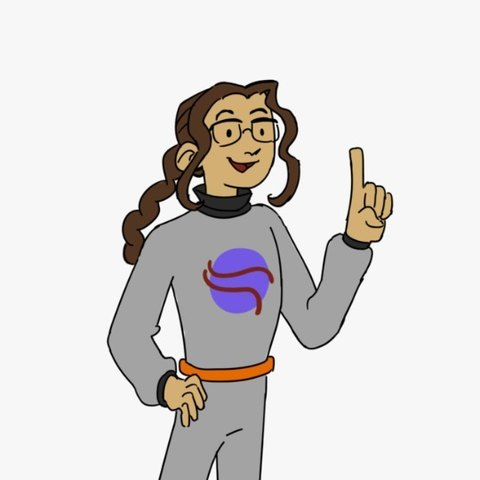
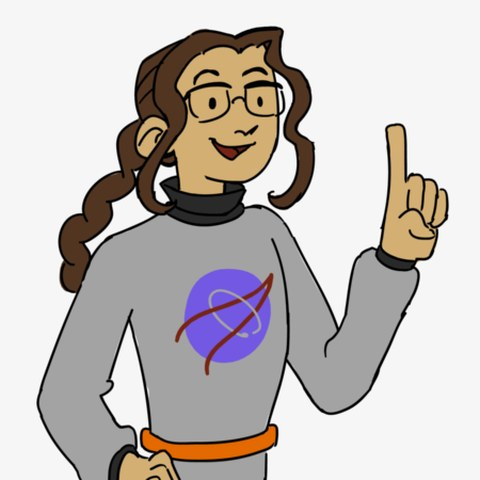
Web: imágenes definitivas, juego que se puede ganar y revisión de consistencia
- Imágenes: satélite junto a "Dos sensores, una sola serie"; dibujos nuevos de
  Evelyn (Inicio y Equipo) y de Valentino (mención especial)
- Juego: la barra con el puntaje y la × vuelve a verse sobre el navbar (igual
  que el cohete de Edu); partida de 1 minuto que se gana con menos del 30 %
  en llamas; los consejos aparecen a los costados del continente
- Tema oscuro con tono azul marino, a juego con el fondo de cielo
- Sin repeticiones: nota de cifras en Inicio, botón al repositorio y logo en
  Equipo, aviso y créditos del pie en Análisis
- Celular: el menú insinúa los ítems ocultos y trae el activo a la vista; el
  punto del dato vivo queda junto a su texto

diff --git a/web/src/views/TeamView.vue b/web/src/views/TeamView.vue
@@ -5,7 +5,6 @@ import { team } from '@/content/team.js';
 import MemberAvatar from '@/components/layout/MemberAvatar.vue';
 
 const { t, locale } = useI18n();
-const REPO = 'https://github.com/Toluk3/TerraAustralisTeam';
 // Mención especial en los agradecimientos
 const special = { id: 'special', name: 'Valentino Melchor', photo: '/team/valentino.png' };
 </script>
@@ -29,7 +28,6 @@ const special = { id: 'special', name: 'Valentino Melchor', photo: '/team/valent
     </section>
 
     <section class="tm__close" aria-labelledby="tm-thanks">
-      <img src="/logo.webp" width="120" height="120" alt="" class="tm__logo" />
       <div>
         <h2 id="tm-thanks">{{ t('team.thanksTitle') }}</h2>
         <p>{{ t('team.thanks') }}</p>
@@ -43,7 +41,6 @@ const special = { id: 'special', name: 'Valentino Melchor', photo: '/team/valent
             <p class="tm__special-body">{{ t('team.specialBody') }}</p>
           </div>
         </div>
-        <a :href="REPO" class="btn" target="_blank" rel="noopener"><span class="dot" aria-hidden="true"></span>{{ t('team.repo') }}<span class="visually-hidden"> ({{ t('nav.newTab') }})</span></a>
       </div>
     </section>
   </div>
@@ -63,15 +60,13 @@ const special = { id: 'special', name: 'Valentino Melchor', photo: '/team/valent
 .tm__name { font-size: 1.3rem; font-weight: 400; }
 .tm__role { margin: 0; color: var(--muted); font-size: 0.95rem; }
 .tm__close {
-  display: grid; grid-template-columns: auto minmax(0, 1fr); gap: clamp(20px, 4vw, 48px); align-items: center;
   margin-top: clamp(56px, 10vh, 112px); padding-top: clamp(32px, 6vh, 56px); border-top: 1px solid var(--line);
 }
-.tm__logo { width: 120px; height: 120px; }
 .tm__close h2 { font-size: clamp(1.6rem, 2.6vw, 2.2rem); margin-bottom: 14px; }
 .tm__close p { color: var(--ink-2); max-width: 64ch; margin-bottom: 22px; }
 .tm__special {
   display: grid; grid-template-columns: auto minmax(0, 1fr); gap: 20px; align-items: center;
-  margin: 0 0 24px; padding: 20px 24px; max-width: 640px;
+  margin: 0; padding: 20px 24px; max-width: 640px;
   border: 1px solid var(--line); border-radius: var(--radius-m); background: var(--surface);
 }
 .tm__special-photo { width: 112px; height: 112px; box-shadow: 0 0 0 1px var(--line); }
@@ -83,8 +78,6 @@ const special = { id: 'special', name: 'Valentino Melchor', photo: '/team/valent
 @media (max-width: 900px) { .tm__card { flex-basis: calc((100% - clamp(14px, 2vw, 24px)) / 2); } }
 @media (max-width: 600px) {
   .tm__card { flex-basis: 100%; }
-  .tm__close { grid-template-columns: 1fr; }
   .tm__special { grid-template-columns: 1fr; justify-items: start; }
-  .tm__close .btn { width: 100%; }
 }
 </style>

diff --git a/web/src/components/layout/AppNavbar.vue b/web/src/components/layout/AppNavbar.vue
@@ -1,5 +1,6 @@
 <script setup>
-import { computed, onBeforeUnmount, onMounted, ref } from 'vue';
+import { computed, nextTick, onBeforeUnmount, onMounted, ref, watch } from 'vue';
+import { useRoute } from 'vue-router';
 import { useI18n } from 'vue-i18n';
 import { ui, setLocale, toggleTheme, effectiveTheme } from '@/stores/ui.js';
 
@@ -17,6 +18,25 @@ const links = [
 // --nav-h sigue el alto real de la barra (bajo 1100 px pasa a dos filas): las pantallas de una
 // pantalla de alto y los anclajes lo usan.
 const header = ref(null);
+
+// En celular la píldora se desplaza de costado: el ítem activo se trae a la vista y, mientras queden
+// ítems a la derecha, un degradé lo insinúa (is-end lo saca al llegar al final)
+const pill = ref(null);
+const atEnd = ref(false);
+const route = useRoute();
+function onPillScroll() {
+  const el = pill.value;
+  if (el) atEnd.value = el.scrollLeft + el.clientWidth >= el.scrollWidth - 2;
+}
+watch(() => route.name, async () => {
+  await nextTick();
+  const el = pill.value;
+  const link = el?.querySelector('.nav__link.is-active');
+  if (el && link && el.scrollWidth > el.clientWidth) {
+    el.scrollLeft = link.offsetLeft - (el.clientWidth - link.offsetWidth) / 2;
+  }
+  onPillScroll();
+});
 let ro = null;
 onMounted(() => {
   ro = new ResizeObserver(() => {
@@ -38,7 +58,7 @@ const themeLabel = computed(() => t(dark.value ? 'nav.themeToLight' : 'nav.theme
         <span class="brand-word nav__word" aria-hidden="true">Terra<br />Australis</span>
       </RouterLink>
 
-      <nav class="nav__pill" :aria-label="t('nav.label')">
+      <nav ref="pill" class="nav__pill" :class="{ 'is-end': atEnd }" :aria-label="t('nav.label')" @scroll.passive="onPillScroll">
         <ul>
           <li v-for="l in links" :key="l.to">
             <RouterLink :to="l.to" v-slot="{ href, navigate, isExactActive }" custom>
@@ -121,5 +141,10 @@ const themeLabel = computed(() => t(dark.value ? 'nav.themeToLight' : 'nav.theme
   .nav__word { font-size: 1.05rem; }
   .nav__link { font-size: 0.95rem; padding: 0 12px; min-height: 44px; }
   .nav__pill { padding: 2px 6px; justify-self: stretch; }
+  .nav__pill ul {
+    -webkit-mask-image: linear-gradient(90deg, #000 0, #000 calc(100% - 28px), transparent);
+    mask-image: linear-gradient(90deg, #000 0, #000 calc(100% - 28px), transparent);
+  }
+  .nav__pill.is-end ul { -webkit-mask-image: none; mask-image: none; }
 }
 </style>

diff --git a/web/src/views/HomeView.vue b/web/src/views/HomeView.vue
@@ -121,7 +121,7 @@ onBeforeUnmount(() => {
             </p>
           </div>
           <!-- Imagen provisoria: reemplazar public/images/dos-sensores.png por la definitiva (mismo nombre) -->
-          <img src="/images/dos-sensores.png" :alt="t('home.problem.imageAlt')" width="1200" height="900"
+          <img src="/images/dos-sensores.png" :alt="t('home.problem.imageAlt')" width="630" height="400"
             class="problem__img" loading="lazy" decoding="async" />
         </div>
       </div>
@@ -151,7 +151,6 @@ onBeforeUnmount(() => {
             <dd>{{ f.value }}</dd>
           </div>
         </dl>
-        <p class="facts__note muted">{{ t('home.facts.note') }}</p>
       </div>
     </section>
 
@@ -234,7 +233,7 @@ onBeforeUnmount(() => {
 .facts__item + .facts__item { padding-left: 20px; border-left: 1px solid var(--line); }
 .facts__item dd { margin: 0; font-weight: 300; font-size: clamp(2rem, 3.6vw, 3.3rem); line-height: 1; letter-spacing: -0.02em; white-space: nowrap; }
 .facts__item dt { color: var(--muted); font-size: 0.95rem; }
-.facts__note { margin-top: 32px; max-width: 60ch; }
+.facts { min-height: 0; padding-bottom: clamp(24px, 4vh, 48px); }
 
 @media (max-width: 900px) {
   .problem__grid { grid-template-columns: 1fr; }
@@ -249,6 +248,8 @@ onBeforeUnmount(() => {
 }
 @media (max-width: 520px) {
   .hero__title { font-size: 2.05rem; }
+  .hero__live { display: block; text-wrap: balance; }
+  .hero__live .dot { margin-right: 8px; vertical-align: 0.1em; }
   .hero__actions { flex-direction: column; align-items: stretch; width: 100%; }
   .hero__primary .btn { width: 100%; }
   .hero__demo { justify-content: center; align-self: center; }

diff --git a/web/src/features/game/index.js b/web/src/features/game/index.js
@@ -32,6 +32,7 @@ const STAGE_FILL = [null, [255, 209, 59], [255, 138, 28], [224, 36, 28]];
 const IDLE_FILL = [56, 142, 60, 46];
 const WATER = [0, 176, 255];
 const SPLASH_MS = 650;
+const TIP_SPOTS = ['left-top', 'right-mid', 'left-bottom', 'right-top', 'left-mid', 'right-bottom'];
 const MAP_LAYERS = ['cells', 'points', 'outline', 'mask'];
 const HANDLERS = ['dragPan', 'scrollZoom', 'boxZoom', 'dragRotate', 'keyboard', 'doubleClickZoom', 'touchZoomRotate', 'touchPitch'];
 
@@ -106,6 +107,7 @@ export function createFireGame(fireMap, options = {}) {
   let tips = [];
   let nextTip = 0;
   let hideTip = Infinity;
+  let tipCount = 0;
   const splashes = new Map(); // celda → momento en que se apagó (para el destello azul)
 
   async function ensureBoard() {
@@ -175,6 +177,8 @@ export function createFireGame(fireMap, options = {}) {
     if (!tips.length) tips = shuffled(board.weights ? [...T.tips, T.dataTip] : T.tips);
     const tip = tips.pop();
     el.tip.innerHTML = `<span aria-hidden="true">${tip.icon}</span><span>${tip.text}</span>`;
+    // En pantallas anchas va rotando por los costados del continente (game.css); en angostas queda abajo
+    el.tip.dataset.pos = TIP_SPOTS[tipCount++ % TIP_SPOTS.length];
     el.tip.hidden = false;
     el.tip.style.animation = 'none';
     void el.tip.offsetWidth; // reinicia la animación de entrada

diff --git a/web/src/features/game/game.css b/web/src/features/game/game.css
@@ -98,6 +98,21 @@
 .tam-game__actions button.is-primary:hover { background: #c23c12; }
 .tam-game__actions button:focus-visible, .tam-game__quit:focus-visible { outline: 2px solid #00beff; outline-offset: 2px; }
 
+/* Con lugar a los costados, el mensaje aparece al lado del continente (el tablero queda centrado) y más grande */
+@media (min-width: 900px) and (min-height: 520px) {
+  .tam-game__tip[data-pos] {
+    left: auto; right: auto; bottom: auto; transform: none; width: min(300px, 24vw); max-width: none;
+    align-items: flex-start; font-size: 17px; padding: 14px 16px; animation-name: tam-game-tip-side;
+  }
+  .tam-game__tip[data-pos^="left"] { left: max(24px, 6vw); }
+  .tam-game__tip[data-pos^="right"] { right: max(24px, 6vw); border-left: 0; border-right: 5px solid #d9481c; }
+  .tam-game__tip[data-pos$="top"] { top: 22%; }
+  .tam-game__tip[data-pos$="mid"] { top: 44%; }
+  .tam-game__tip[data-pos$="bottom"] { top: 66%; }
+  .tam-game__tip[data-pos] > span:first-child { font-size: 30px; }
+}
+@keyframes tam-game-tip-side { from { opacity: 0; transform: scale(0.9); } }
+
 @media (max-width: 480px) {
   .tam-game__hud { font-size: 13px; gap: 7px; padding-left: 12px; }
   .tam-game__tip { font-size: 14px; }

diff --git a/web/src/styles/tokens.css b/web/src/styles/tokens.css
@@ -54,15 +54,15 @@
 }
 
 :root[data-theme='dark'] {
-  --bg: #0d0e10;
-  --surface: #15171a;
-  --surface-2: #1c1e22;
-  --pill: #22252a;
+  --bg: #0a0f1a;
+  --surface: #111a2b;
+  --surface-2: #172238;
+  --pill: #1b2740;
   --ink: #f3f3ef;
   --ink-2: #d9dad5;
-  --muted: #a3a6ad;
-  --line: rgba(255, 255, 255, 0.1);
-  --line-strong: rgba(255, 255, 255, 0.24);
+  --muted: #b2b8c4;
+  --line: rgba(170, 200, 255, 0.13);
+  --line-strong: rgba(170, 200, 255, 0.28);
   --btn-bg: #f3f3ef;
   --btn-ink: #0d0e10;
   --btn-bg-hover: #d9dad5;
@@ -86,15 +86,15 @@
 
 @media (prefers-color-scheme: dark) {
   :root:not([data-theme]) {
-    --bg: #0d0e10;
-    --surface: #15171a;
-    --surface-2: #1c1e22;
-    --pill: #22252a;
+    --bg: #0a0f1a;
+    --surface: #111a2b;
+    --surface-2: #172238;
+    --pill: #1b2740;
     --ink: #f3f3ef;
     --ink-2: #d9dad5;
-    --muted: #a3a6ad;
-    --line: rgba(255, 255, 255, 0.1);
-    --line-strong: rgba(255, 255, 255, 0.24);
+    --muted: #b2b8c4;
+    --line: rgba(170, 200, 255, 0.13);
+    --line-strong: rgba(170, 200, 255, 0.28);
     --btn-bg: #f3f3ef;
     --btn-ink: #0d0e10;
     --btn-bg-hover: #d9dad5;

diff --git a/web/src/features/game/texts.js b/web/src/features/game/texts.js
@@ -23,8 +23,8 @@ export const TEXTS = {
       `Si arde más del <b>${lose}</b> del mapa, perdés.`,
     ],
     endlessRule: 'Cada vez aparecen más: <b>¿cuántos puntos hacés?</b>',
-    timedRule: (time, win) => `A los <b>${time}</b>, con menos del <b>${win}</b> en llamas, ganás.`,
-    minutes: (n) => `${n} minutos`,
+    timedRule: (time, win) => `Si llegás a <b>${time}</b> con menos del <b>${win}</b> en llamas, ganás.`,
+    minutes: (n) => (n === 1 ? '1 minuto' : `${n} minutos`),
     seconds: (n) => `${n} segundos`,
     best: (n) => `Récord: <b>${n}</b> puntos`,
     stage1: 'recién empieza',
@@ -81,7 +81,7 @@ export const TEXTS = {
     ],
     endlessRule: 'More and more keep appearing: <b>how many points can you get?</b>',
     timedRule: (time, win) => `After <b>${time}</b>, with less than <b>${win}</b> on fire, you win.`,
-    minutes: (n) => `${n} minutes`,
+    minutes: (n) => (n === 1 ? '1 minute' : `${n} minutes`),
     seconds: (n) => `${n} seconds`,
     best: (n) => `Best: <b>${n}</b> points`,
     stage1: 'just started',

diff --git a/web/src/components/layout/AppFooter.vue b/web/src/components/layout/AppFooter.vue
@@ -1,6 +1,9 @@
 <script setup>
 import { useI18n } from 'vue-i18n';
+import { useRoute } from 'vue-router';
 const { t } = useI18n();
+// Análisis ya muestra el aviso y los créditos en su recuadro fijo: acá no se repiten
+const route = useRoute();
 const year = new Date().getFullYear();
 </script>
 
@@ -14,8 +17,10 @@ const year = new Date().getFullYear();
           <div class="muted">NASA Space Apps Challenge · {{ year }}</div>
         </div>
       </div>
-      <p class="foot__note">{{ t('footer.notice') }}</p>
-      <p class="foot__credit muted">{{ t('footer.credit') }}</p>
+      <template v-if="route.name !== 'analysis'">
+        <p class="foot__note">{{ t('footer.notice') }}</p>
+        <p class="foot__credit muted">{{ t('footer.credit') }}</p>
+      </template>
     </div>
   </footer>
 </template>

diff --git a/web/src/views/EduView.vue b/web/src/views/EduView.vue
@@ -43,7 +43,11 @@ async function makeGame() {
   const { createFireGame } = await import('@/features/game/index.js');
   if (!mapApi.value || playing.value) return;
   gameApi?.destroy();
-  gameApi = createFireGame(mapApi.value, { locale: locale.value });
+  // Partida de un minuto que se puede ganar: con cerca de un acierto por segundo alcanza
+  gameApi = createFireGame(mapApi.value, {
+    locale: locale.value,
+    rules: { duration: 60, winFrac: 0.3, spawnStart: 1, spawnRamp: 0.7 },
+  });
   gameApi.on('open', () => { playing.value = true; });
   gameApi.on('exit', () => { playing.value = false; });
 }

diff --git a/web/src/App.vue b/web/src/App.vue
@@ -42,5 +42,6 @@ watch(
 </template>
 
 <style>
-#main { outline: none; min-height: 60vh; position: relative; z-index: 0; }
+/* Sin z-index propio: el juego a pantalla completa y el cohete de Edu tienen que quedar sobre el navbar */
+#main { outline: none; min-height: 60vh; }
 </style>
